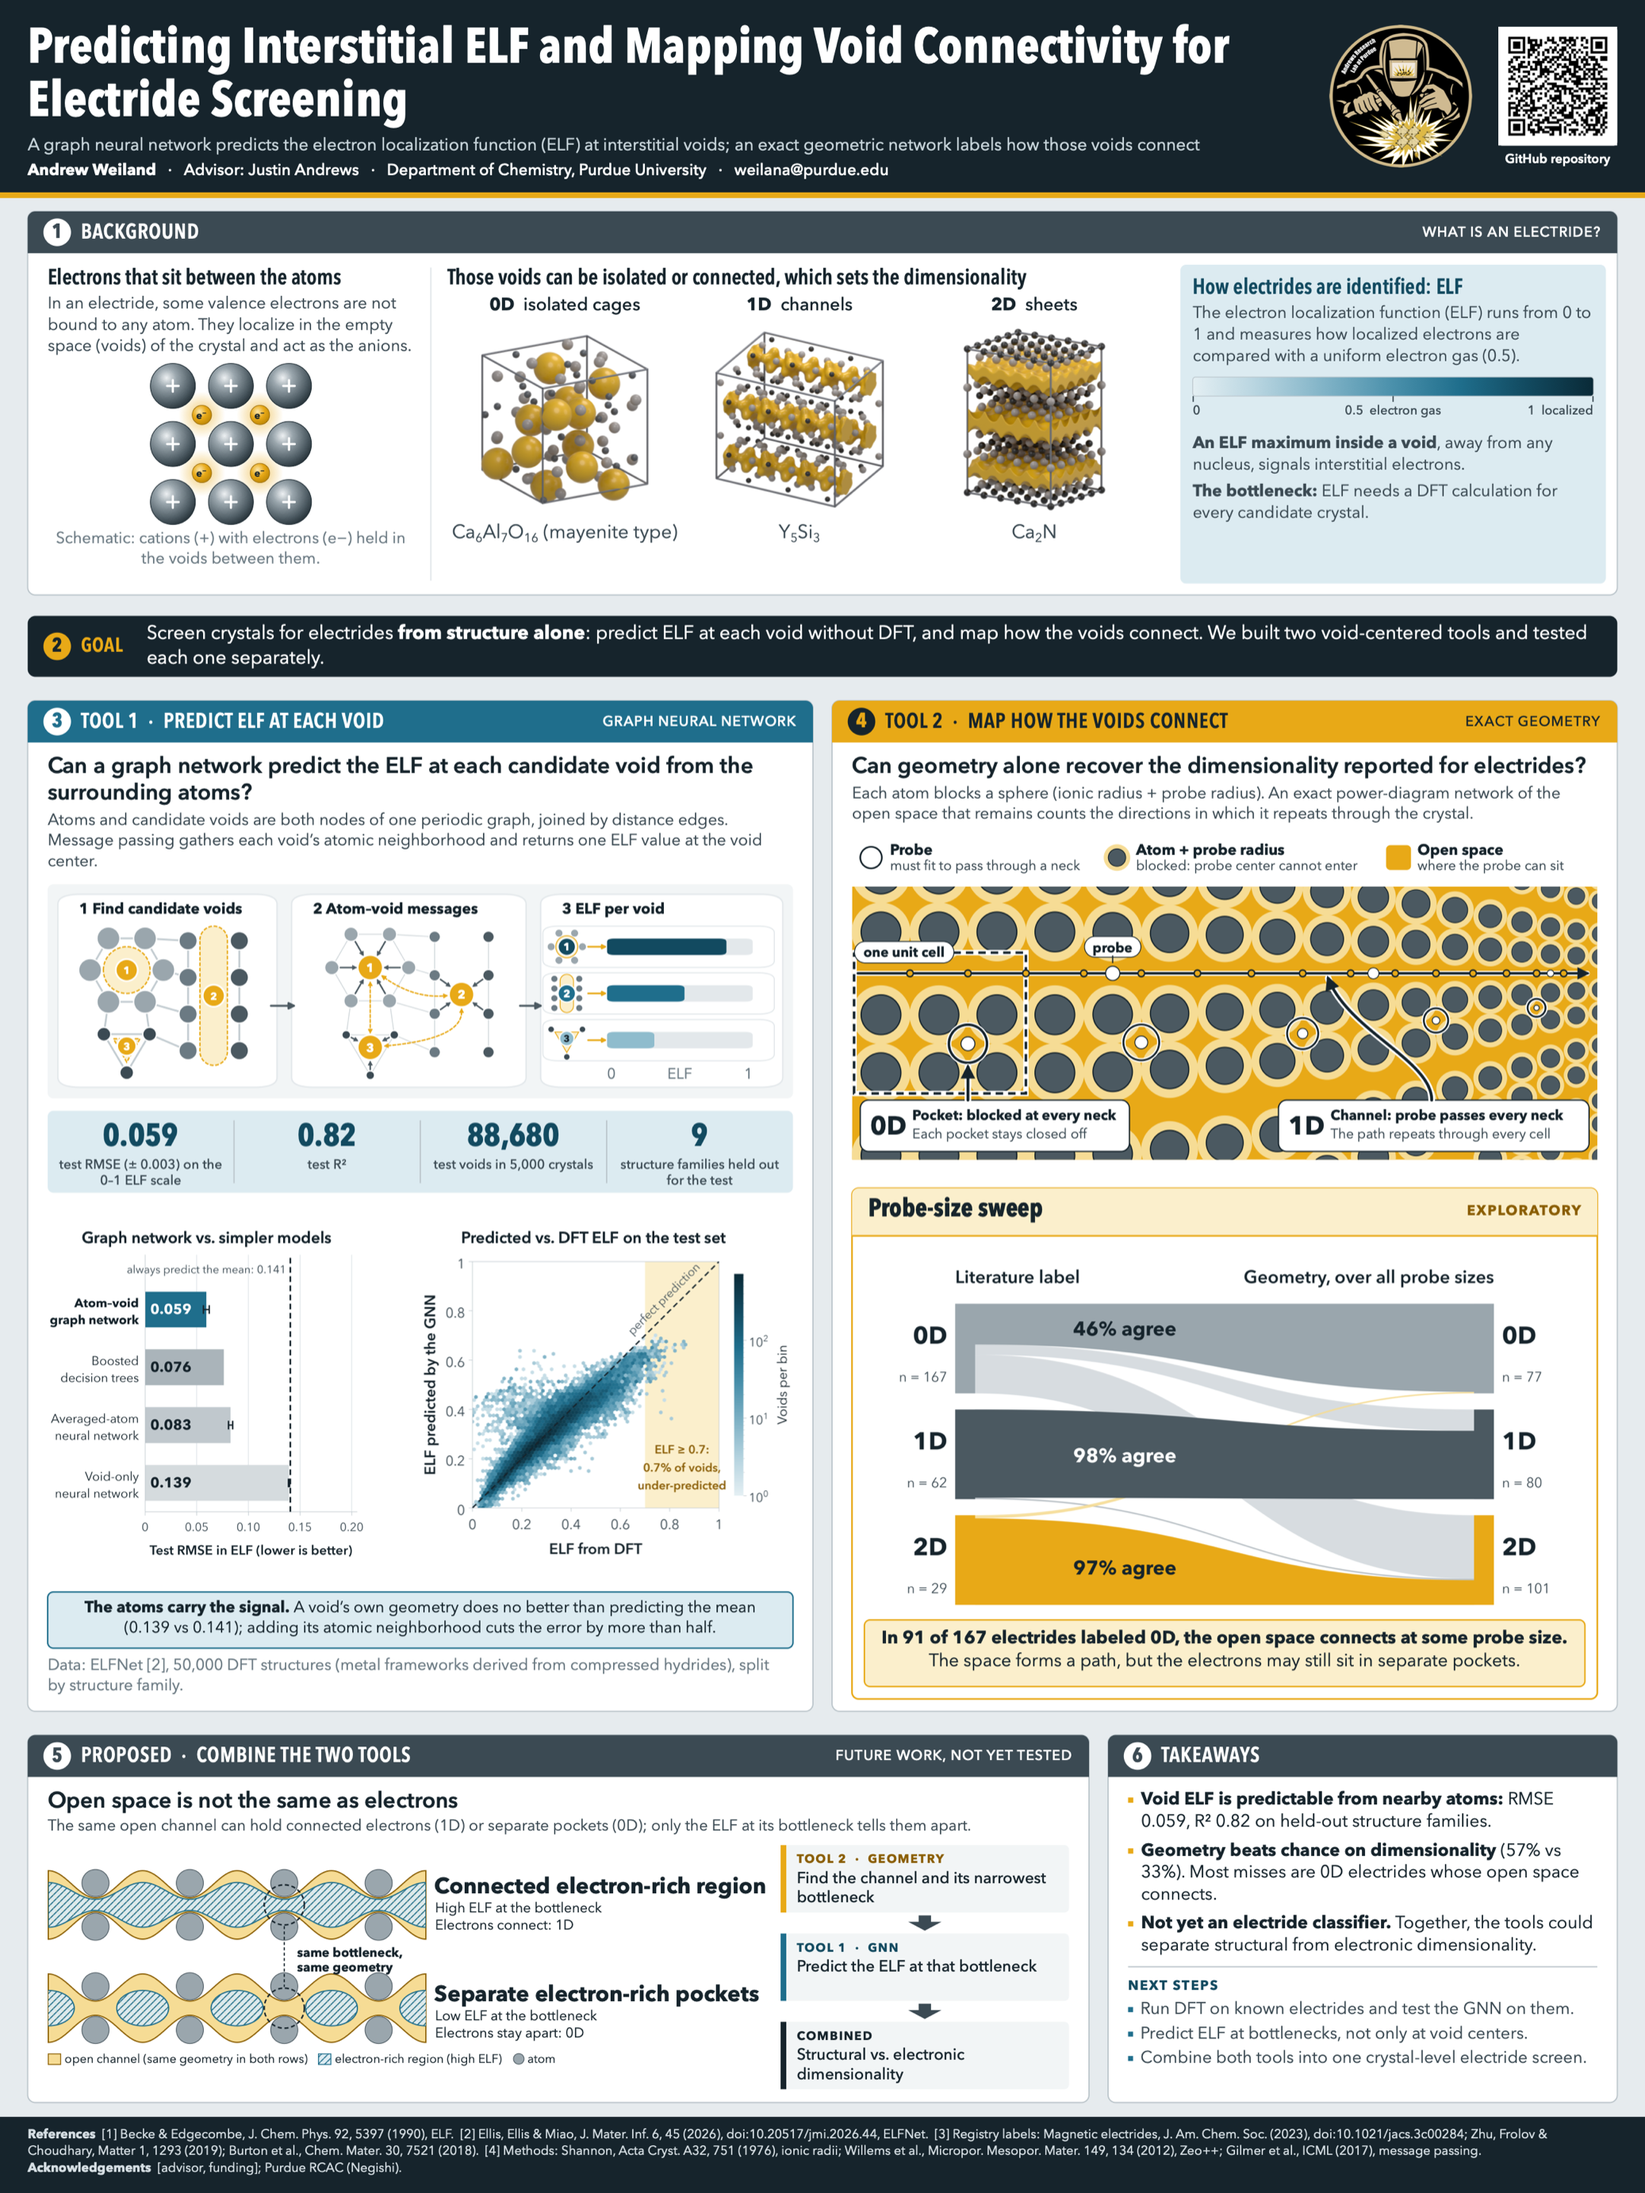
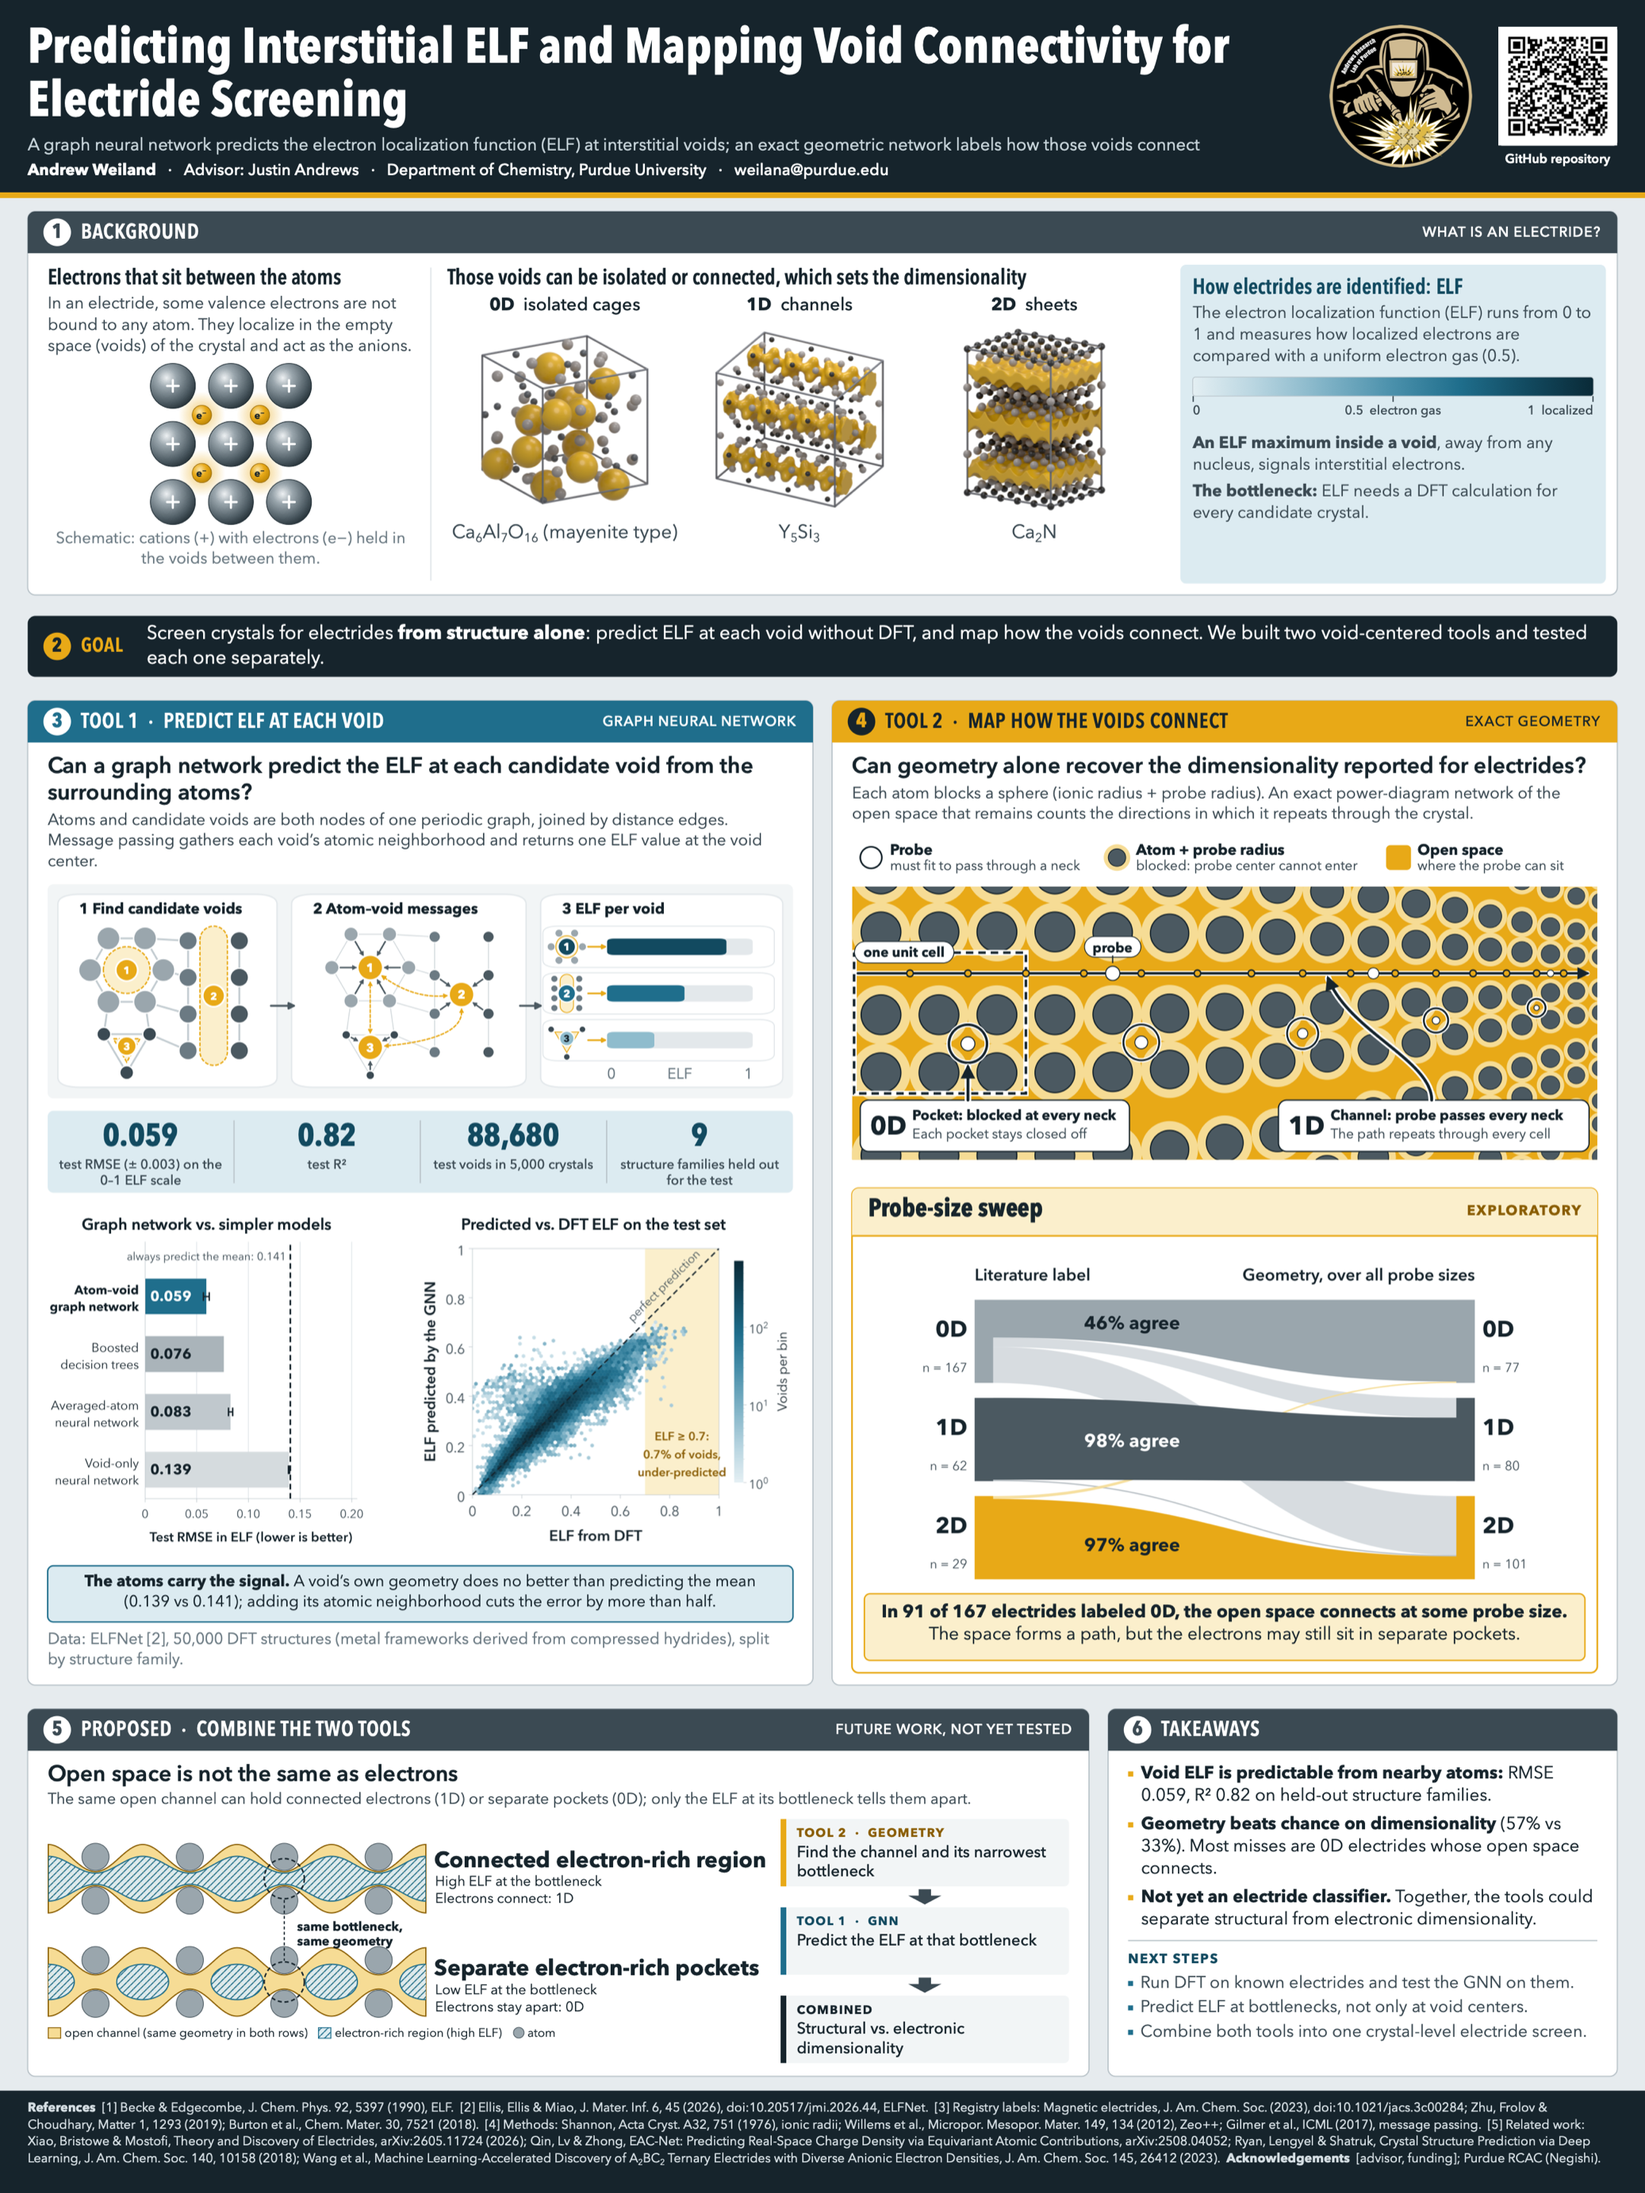
Poster v4: add related-work references

Changed region(s): [[0.0, 0.5599, 1.0, 0.9953], [0.7715, 0.5599, 0.8949, 0.591], [0.4629, 0.6221, 0.4937, 0.6532]]

diff --git a/poster/build/build_poster_v4.py b/poster/build/build_poster_v4.py
@@ -262,7 +262,7 @@ FLOW_ASPECT = 8.8 / 16.0
 HEAD_H, BG_Y, BG_H = 404, 444, 806
 GOAL_Y, GOAL_H = BG_Y + BG_H + 44, 128
 TOOL_Y = GOAL_Y + GOAL_H + 50
-REF_H = 160
+REF_H = 215
 ROW3_H = 772
 ROW3_Y = H - REF_H - 30 - ROW3_H
 TOOL_H = ROW3_Y - 50 - TOOL_Y
@@ -447,6 +447,10 @@ p.text(M, ry + 24, W - 2 * M,
        "doi:10.20517/jmi.2026.44, ELFNet.  [3] Registry labels: Magnetic electrides, J. Am. Chem. Soc. (2023), doi:10.1021/jacs.3c00284; "
        "Zhu, Frolov & Choudhary, Matter 1, 1293 (2019); Burton et al., Chem. Mater. 30, 7521 (2018).  [4] Methods: Shannon, Acta Cryst. A32, 751 (1976), "
        "ionic radii; Willems et al., Micropor. Mesopor. Mater. 149, 134 (2012), Zeo++; Gilmer et al., ICML (2017), message passing.  "
+       "[5] Related work: Xiao, Bristowe & Mostofi, Theory and Discovery of Electrides, arXiv:2605.11724 (2026); "
+       "Qin, Lv & Zhong, EAC-Net: Predicting Real-Space Charge Density via Equivariant Atomic Contributions, arXiv:2508.04052; "
+       "Ryan, Lengyel & Shatruk, Crystal Structure Prediction via Deep Learning, J. Am. Chem. Soc. 140, 10158 (2018); "
+       "Wang et al., Machine Learning-Accelerated Discovery of A~2~BC~2~ Ternary Electrides with Diverse Anionic Electron Densities, J. Am. Chem. Soc. 145, 26412 (2023).  "
        "**Acknowledgements**  [advisor, funding]; Purdue RCAC (Negishi).", 20, "#d5dee3", 400, lh=1.32)
 
 p.save(OUT, DEFS)
